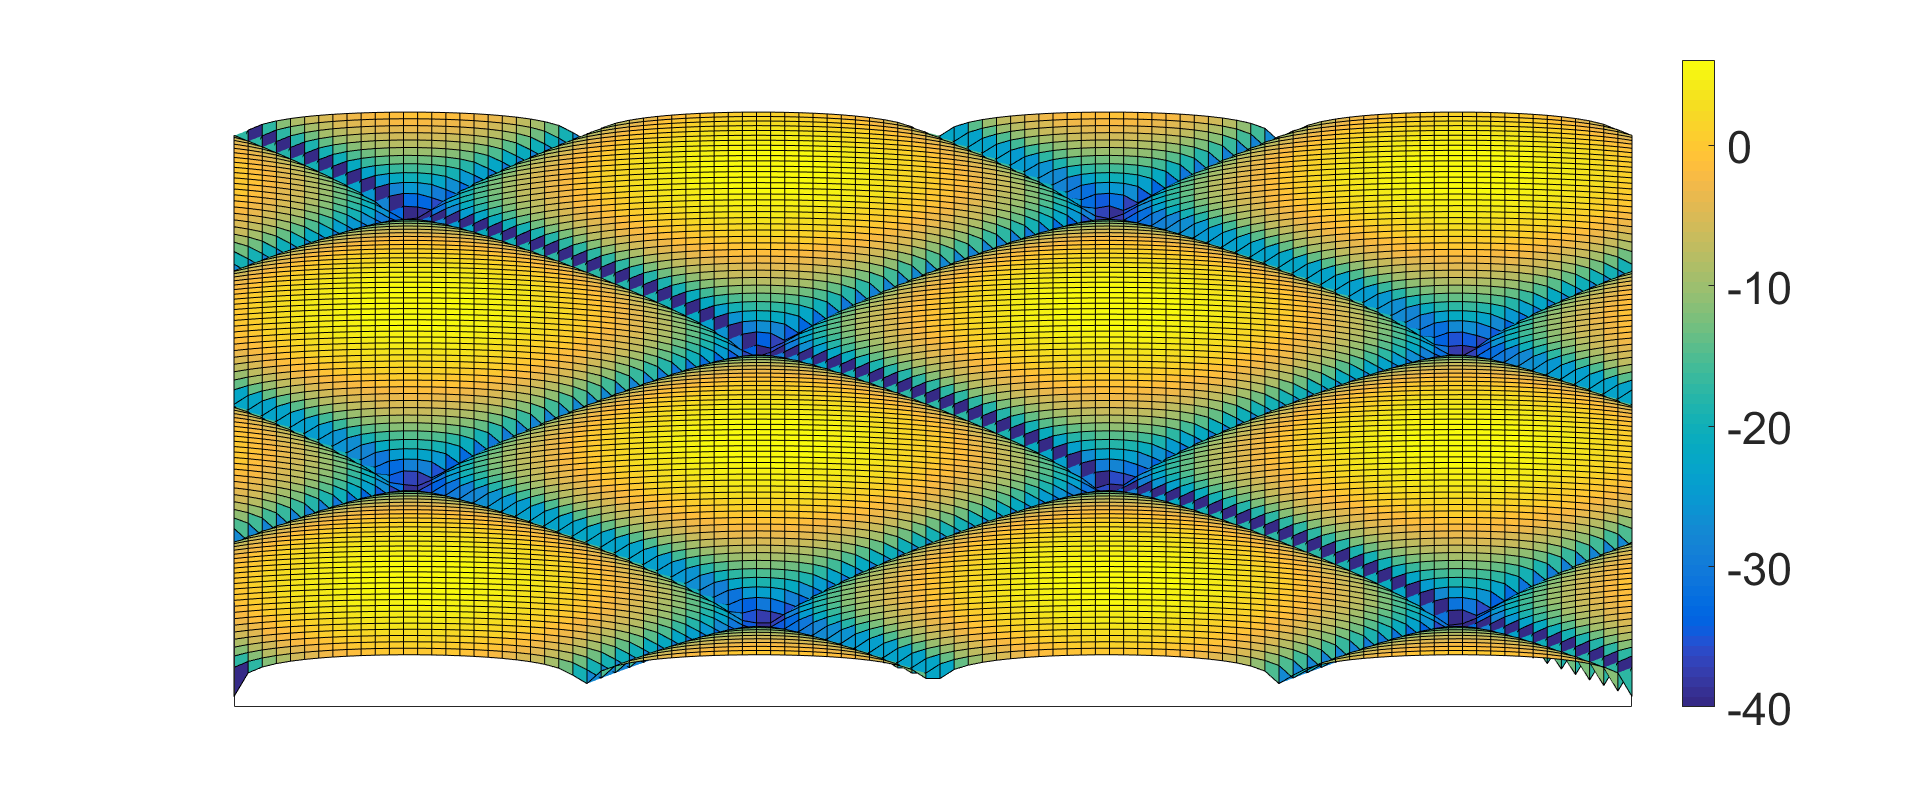
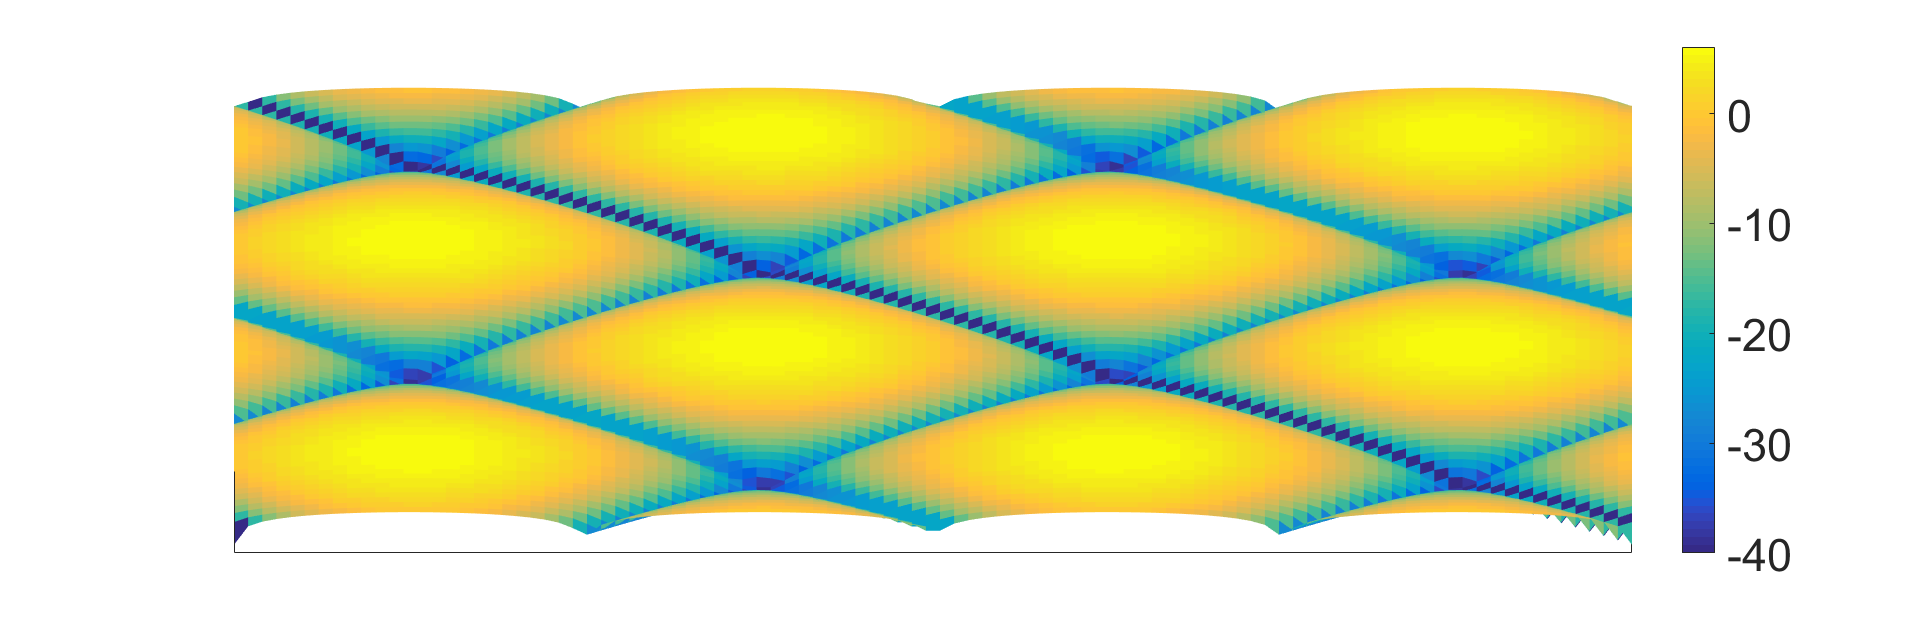
intro

diff --git a/report/chapter/introduction.tex b/report/chapter/introduction.tex
@@ -7,17 +7,28 @@
 %drop out
 %5G
 
-In all communication an important measure is the channel in which the message is transmitted. For wireless communication, this is no different. The message is transmitted from a \gls{TX} through the air and to a \gls{RX}. This transmission can be done in different environments, which have different impacts on the received signal. Common for all the environments is they introduce fading, which if not accounted for can have devastating effects for the transmission. If the transmitted signal drops to low in power, the receiver can not received it and the signal will be lost. There are different tools to higher the chance for the receiver to receive signals that drops low and therefore higher the reliability of the communication link
+In all communication an important measure is the channel in which the message is transmitted. For wireless communication, this is no different. The message is transmitted from a \gls{TX} through the air and to a \gls{RX}. This transmission can be done in different environments, which have different impacts on the received signal. Common for all the environments is they introduce fading, which if not accounted for can have devastating effects for the transmission. 
 
-Fading occurs when multipath propagation is possible, that will introduce points in space where the waves adds either constructively or destructively. The constructive 
+Fading occurs when multipath propagation is possible, that will introduce points in space where the waves adds either constructively or destructively, as can be seen on \autoref{intro_fading}. The constructive spots is not of much interest as it is only a couple of dB's difference, however the destructive interference can create spots with losses that borders infinite dB's. These spots are called deep fades and is is where the communication might suffer a drop out. A drop out occurs if the transmitted signal drops below the RX sensitivity level so the signal is lost. There are different tools to heighten the chance for the RX to receive signals that drops low and therefore increase the reliability of the communication link
 
 
+\begin{figure}[H]
+\centering
+\includegraphics[width=\textwidth]{figures/intro_fading.png}
+\caption{A graphical representation of two wave fronts meeting creating a fading pattern. Values in dB.}
+\label{intro_fading}
+\end{figure}
 
 \section{Motivation}
-With the development of the 5G wireless cellular network, a new concept have been introduced, \gls{URC}. Where earlier networks have run with a error rate on 0.1\%, with URC the error rate shall be under 0.001-0.0001\%
+With the development of the 5G wireless cellular network, a new concept have been introduced, \gls{URC}. Where earlier networks have run with a drop out probability of 0.1\%, with URC the drop out probability shall be under 0.001-0.0001\%. A problem about this is 
 
 
-
+\begin{figure}[H]
+\centering
+\includegraphics[width=0.65\textwidth]{figures/fading_gain.png}
+\caption{A graphical representation of two wave fronts meeting creating a fading pattern. Values in dB.}
+\label{fading_gain}
+\end{figure}
 
 
 \section{Project outline}
